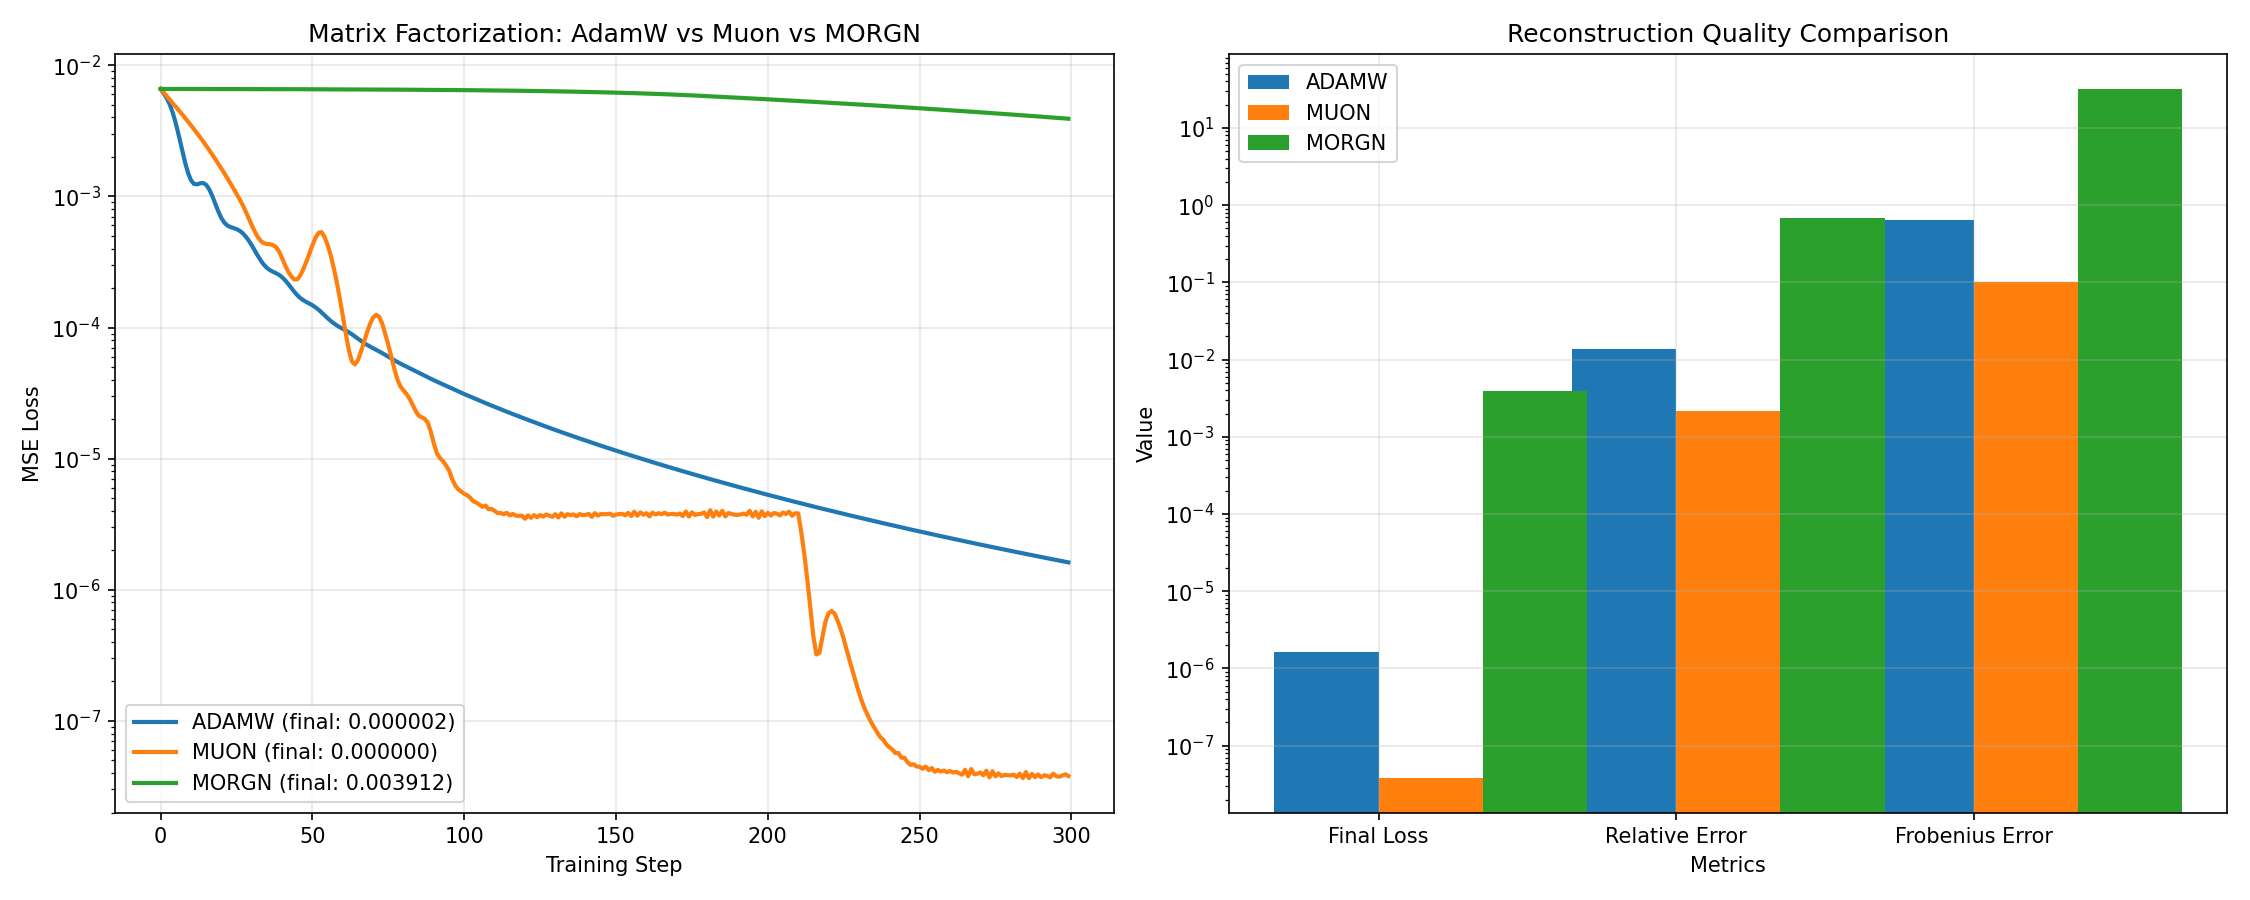
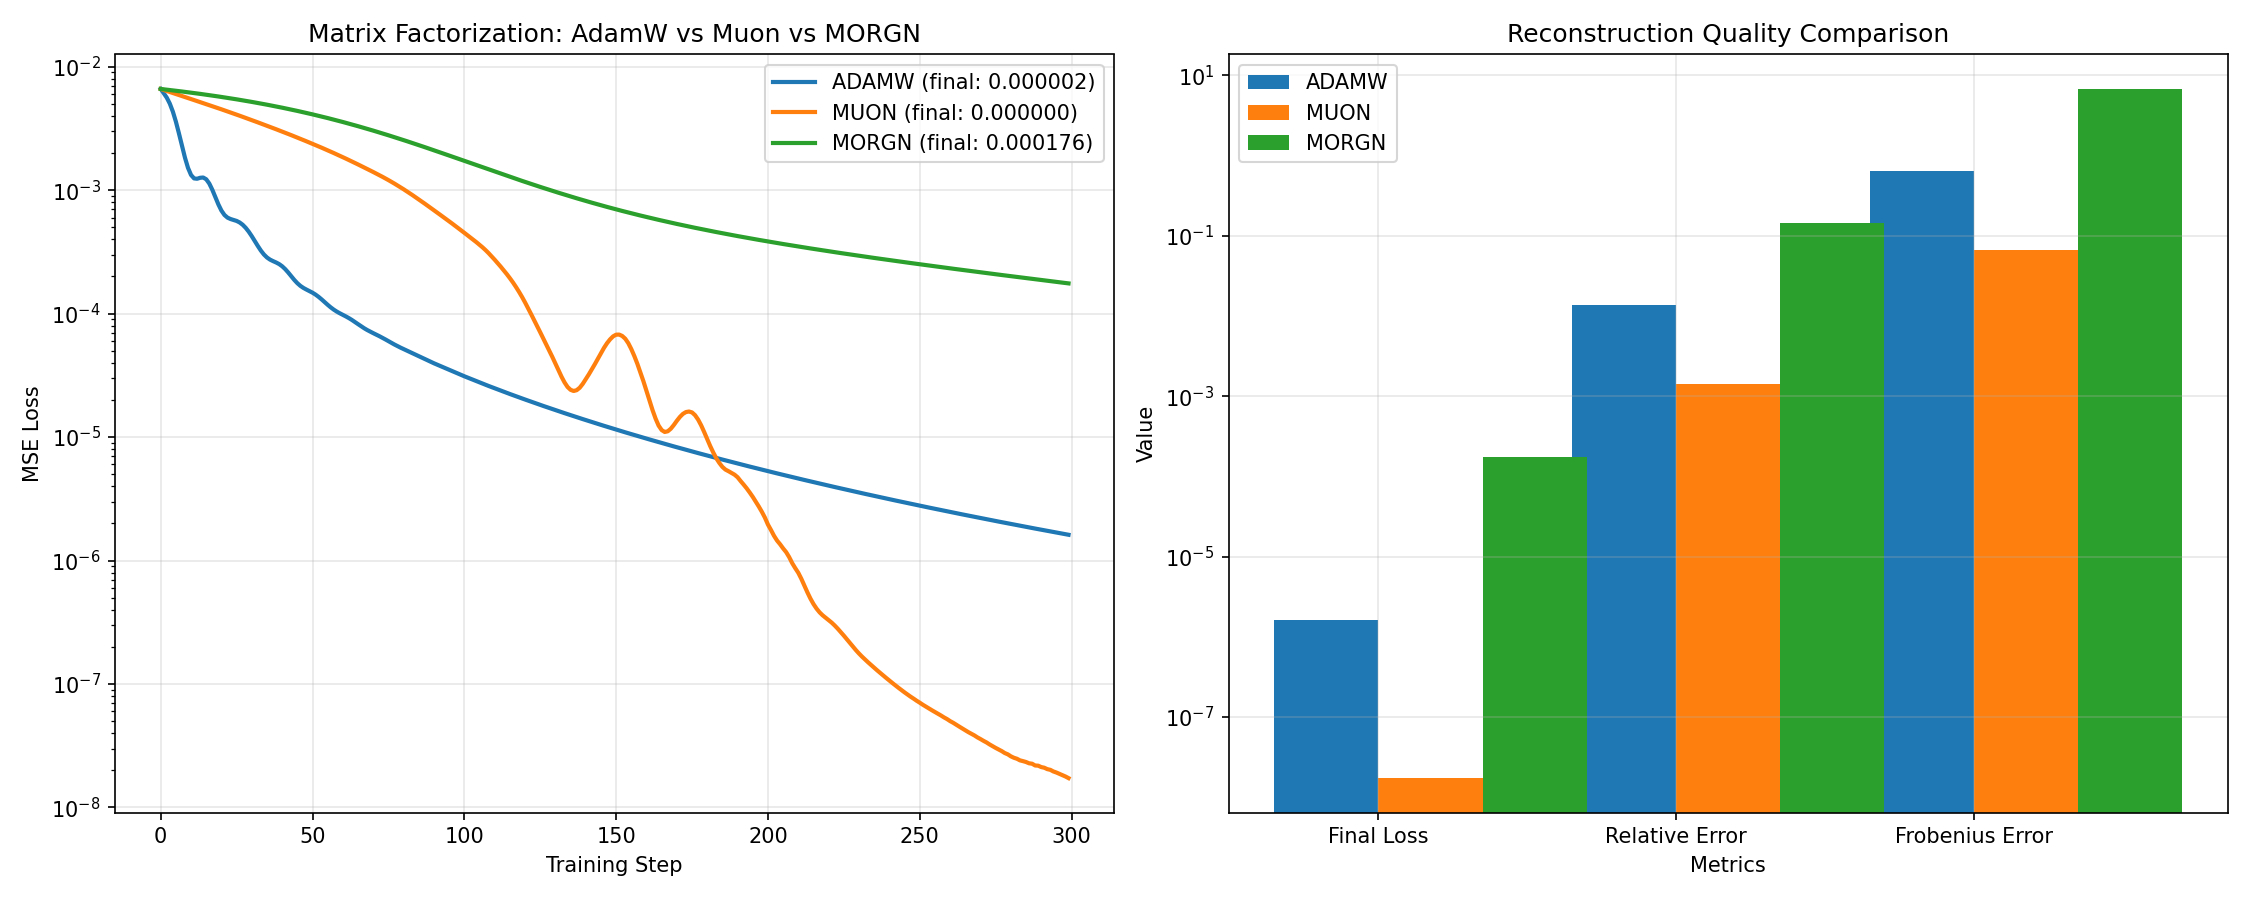
jos: make id case more like rot case in Makefile options, remove unused morgn_directions option

diff --git a/examples/matrix_factorization_compare.py b/examples/matrix_factorization_compare.py
@@ -161,7 +161,6 @@ def train_factorization(target_matrix: torch.Tensor, optimizer_name: str,
                        morgn_lr: float | None = None,
                        morgn_lambda: float = 0.99,
                        morgn_eps: float = 1e-3,
-                       morgn_directions: int = 8,
                        morgn_step_clamp: float = 0.0,
                        clip_grad_norm: float = 0.0) -> tuple[list[float], MatrixFactorizationModel]:
     """Train matrix factorization with specified optimizer."""
@@ -192,7 +191,6 @@ def train_factorization(target_matrix: torch.Tensor, optimizer_name: str,
             morgn_params=morgn_params,
             lambda_=morgn_lambda,
             eps=morgn_eps,
-            directions=morgn_directions,
             step_clamp=morgn_step_clamp,
             adamw_params=adamw_params,
         )
@@ -266,7 +264,7 @@ def train_symmetric_factorization(target_matrix: torch.Tensor, optimizer_name: s
                                   muon_lr_warmdown_at: float = 0.7,
                                   muon_lr_decay_factor: float = 0.1,
                                   morgn_lr: float | None = None, morgn_lambda: float = 0.99,
-                                  morgn_eps: float = 1e-3, morgn_directions: int = 8,
+                                  morgn_eps: float = 1e-3,
                                   morgn_step_clamp: float = 0.0,
                                   clip_grad_norm: float = 0.0) -> tuple[list[float], SymmetricFactorizationModel]:
     """Train SPD factorization W such that W W^T ≈ target_matrix."""
@@ -295,7 +293,6 @@ def train_symmetric_factorization(target_matrix: torch.Tensor, optimizer_name: s
             morgn_params=morgn_params,
             lambda_=morgn_lambda,
             eps=morgn_eps,
-            directions=morgn_directions,
             step_clamp=morgn_step_clamp,
             adamw_params=adamw_params,
         )
@@ -414,7 +411,6 @@ def compare_matrix_factorization(matrix_size: int = 64, rank: int = None,
                                 morgn_lr: float | None = None,
                                 morgn_lambda: float = 0.99,
                                 morgn_eps: float = 1e-3,
-                                morgn_directions: int = 8,
                                 morgn_step_clamp: float = 0.0,
                                 clip_grad_norm: float = 0.0) -> dict:
     """Compare AdamW, Muon, and MORGN on matrix factorization task."""
@@ -457,7 +453,7 @@ def compare_matrix_factorization(matrix_size: int = 64, rank: int = None,
                 muon_lr_warmdown_at=muon_lr_warmdown_at,
                 muon_lr_decay_factor=muon_lr_decay_factor,
                 morgn_lr=morgn_lr, morgn_lambda=morgn_lambda, morgn_eps=morgn_eps,
-                morgn_directions=morgn_directions, morgn_step_clamp=morgn_step_clamp,
+                morgn_step_clamp=morgn_step_clamp,
                 clip_grad_norm=clip_grad_norm
             )
         else:
@@ -469,7 +465,7 @@ def compare_matrix_factorization(matrix_size: int = 64, rank: int = None,
                 muon_lr_warmdown_at=muon_lr_warmdown_at,
                 muon_lr_decay_factor=muon_lr_decay_factor,
                 morgn_lr=morgn_lr, morgn_lambda=morgn_lambda, morgn_eps=morgn_eps,
-                morgn_directions=morgn_directions, morgn_step_clamp=morgn_step_clamp,
+                morgn_step_clamp=morgn_step_clamp,
                 clip_grad_norm=clip_grad_norm
             )
         train_time = time.time() - start_time
@@ -620,8 +616,6 @@ def main():
                        help='MORGN forgetting factor lambda (default: 0.995)')
     parser.add_argument('--morgn-eps', type=float, default=1e-2,
                        help='MORGN initial inverse scale epsilon (P0=(1/eps)I)')
-    parser.add_argument('--morgn-directions', type=int, default=4,
-                       help='Number of gradient columns assimilated per step (default: 4)')
     parser.add_argument('--morgn-step-clamp', type=float, default=0.1,
                        help='Clamp step Frobenius norm to this fraction of ||W|| (default: 0.1)')
     # Global gradient clipping
@@ -684,7 +678,6 @@ def main():
         morgn_lr=args.morgn_lr,
         morgn_lambda=args.morgn_lambda,
         morgn_eps=args.morgn_eps,
-        morgn_directions=args.morgn_directions,
         morgn_step_clamp=args.morgn_step_clamp,
         clip_grad_norm=args.clip_grad_norm
     )
